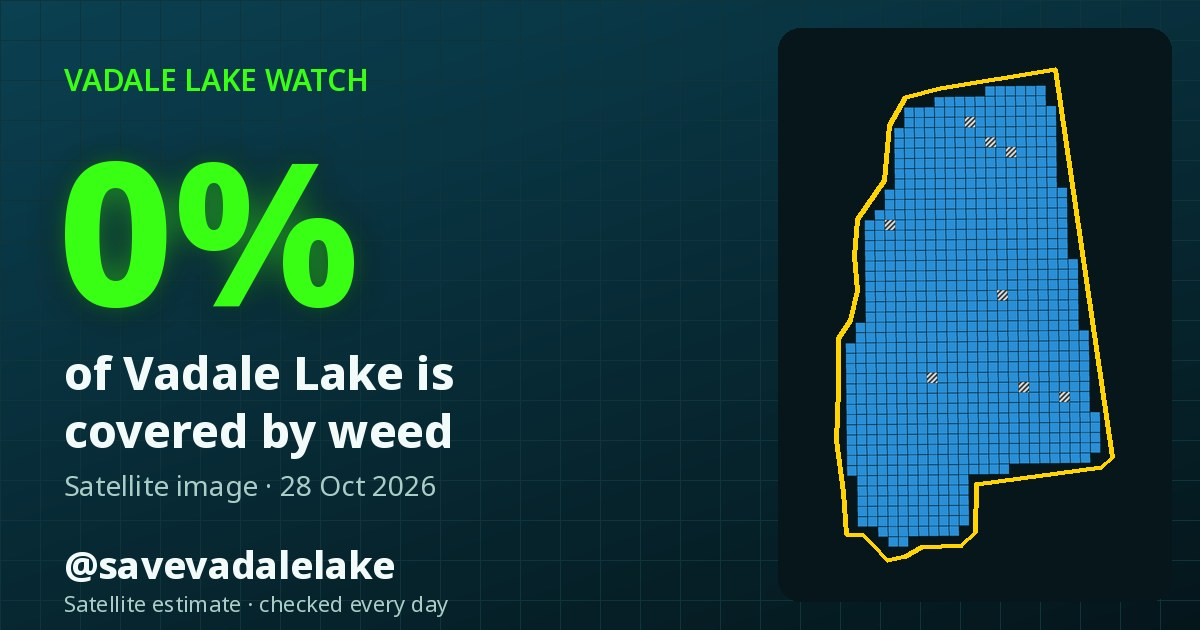
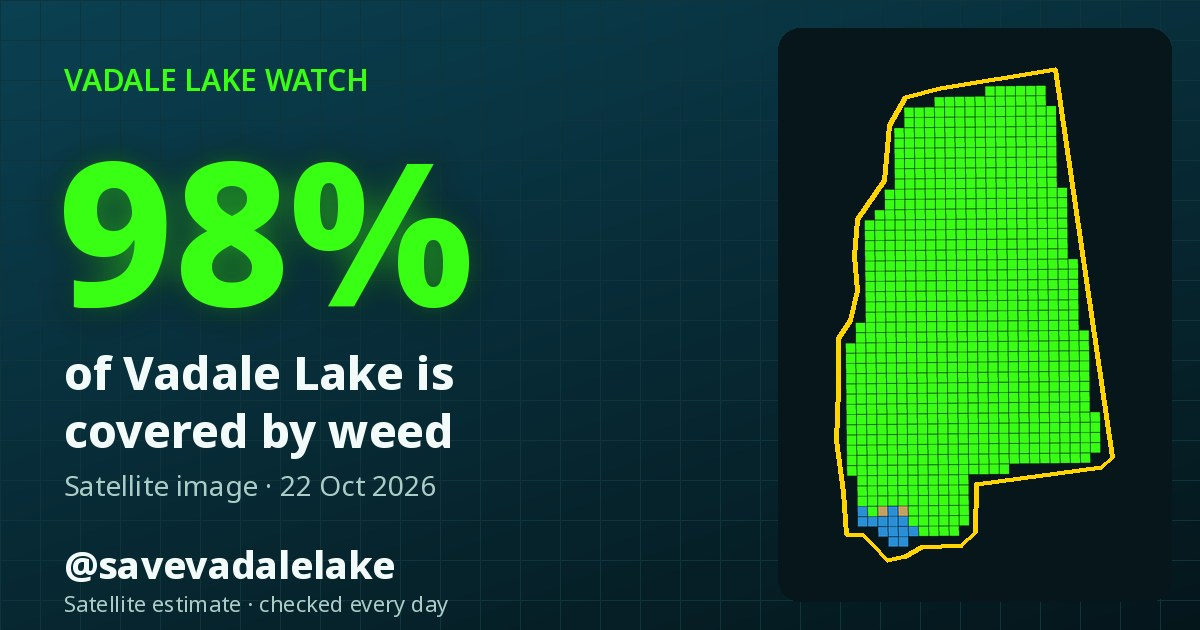
Skip damaged satellite files instead of reading them as "100% water"
The 28 Oct 2026 image (S2B, T43QCB) arrived with every band at 0-255
instead of ~1000-5000. After the reflectance offset everything was zero:
black photo, NDVI 0, so the whole lake was classed as open water. The
cloud and haze checks only look for things that are too bright.

New check: an image is skipped as "bad_data" if the visible lake's median
green reflectance is below 0.01 (darkest real date since 2020: 0.036).
Re-applied offline to the saved data, it removes 28 Oct 2026 and
3 Mar 2023 (an over-corrected reprocessed file, lake below zero
reflectance; its 43.9% was an outlier). The site falls back to 22 Oct.

The other 28 Oct tile (T43QBB) was never checked (set aside as a
duplicate), so its row is dropped and the next scheduled run re-checks it.
Data changes pushed by hand now redeploy the site.

Claude-Session: https://claude.ai/code/session_01Q7nxpmaE23ByqgsfcBjkiC

Changed region(s): [[0.6783, 0.1206, 0.925, 0.8746], [0.0308, 0.2413, 0.4008, 0.5127], [0.2467, 0.754, 0.2775, 0.7841]]

diff --git a/pipeline/run.py b/pipeline/run.py
@@ -74,6 +74,7 @@ def analyse(arrs: dict, epsg: int, baseline, transform, lake, cfg: dict) -> dict
              & (refl["B02"] <= sat["haze_blue_pixel_max"]))
     visible_pct = 100 * (valid & inside).sum() / max(inside.sum(), 1)
     haze_blue = float(np.median(refl["B02"][valid & inside])) if (valid & inside).any() else None
+    green = float(np.median(refl["B03"][valid & inside])) if (valid & inside).any() else None
     idx = C.indices(refl)
     det = cfg["detection"]
     area = lake_area_ha(lake)
@@ -81,7 +82,7 @@ def analyse(arrs: dict, epsg: int, baseline, transform, lake, cfg: dict) -> dict
     main = C.summarise(cls, area)
     low = C.summarise(C.classify(idx, valid, core, det, det["ndvi_weed_strict"]), area)
     high = C.summarise(C.classify(idx, valid, core, det, det["ndvi_weed_loose"]), area)
-    return {"visible_pct": visible_pct, "haze_blue": haze_blue, "cls": cls, "refl": refl, "stats": main,
+    return {"visible_pct": visible_pct, "haze_blue": haze_blue, "green": green, "cls": cls, "refl": refl, "stats": main,
             "weed_pct_low": low["weed_pct"], "weed_pct_high": high["weed_pct"]}
 
 
@@ -90,6 +91,8 @@ def quality_status(res: dict, cfg: dict) -> str | None:
     sat = cfg["satellite"]
     if res["visible_pct"] < sat["min_visible_pct"]:
         return "too_cloudy"
+    if res["green"] < sat["min_green_median"]:
+        return "bad_data"  # damaged file: impossibly dark, everything reads as water
     if res["haze_blue"] is None or res["haze_blue"] > sat["haze_blue_median_max"]:
         return "hazy"
     return None

diff --git a/tests/test_classify.py b/tests/test_classify.py
@@ -107,3 +107,11 @@ def test_refined_grid_covers_same_area():
     assert (f["width"], f["height"]) == (g["width"] * 2, g["height"] * 2)
     assert abs((t.c + t.a * g["width"]) - (u.c + u.a * f["width"])) < 1e-6
     assert abs((t.f + t.e * g["height"]) - (u.f + u.e * f["height"])) < 1e-6
+
+
+def test_broken_file_is_rejected():
+    from pipeline.run import quality_status
+    arrs, epsg, pb, tr = synthetic_scene(0.8)
+    # 28 Oct 2026: every band 0-255 instead of ~1000-5000 -> all "water"
+    broken = {**{b: (arrs[b] % 256) for b in ["B02", "B03", "B04", "B08", "B11"]}, "SCL": arrs["SCL"]}
+    assert quality_status(analyse(broken, epsg, pb, tr, LAKE, CFG), CFG) == "bad_data"

diff --git a/README.md b/README.md
@@ -39,6 +39,11 @@ It is available in English and Marathi.
 So a lake pixel brighter than 0.12 in blue light also counts as hidden, and an image is skipped
 if the visible lake's median blue is above 0.10 (clean water and weed are both dark in blue).
 
+**Damaged files.** Very rarely an image file arrives broken (on 28 Oct 2026 every value was 0–255
+instead of about 1,000–5,000, so the photo was black and the whole lake read as "water").
+An image is skipped as `bad_data` if the visible lake's median green reflectance is below 0.01;
+real water and weed never get that dark (the darkest real date since 2020 is 0.036).
+
 **Low-confidence dates.** Some clear images still give unreliable numbers. These are kept in
 `history.csv` with a `flag`, drawn as hollow grey dots, and never used for the headline numbers:
 - `lake_bed_exposed`: more than 15% of the lake is bare mud or dry bed (the lake was partly dry
